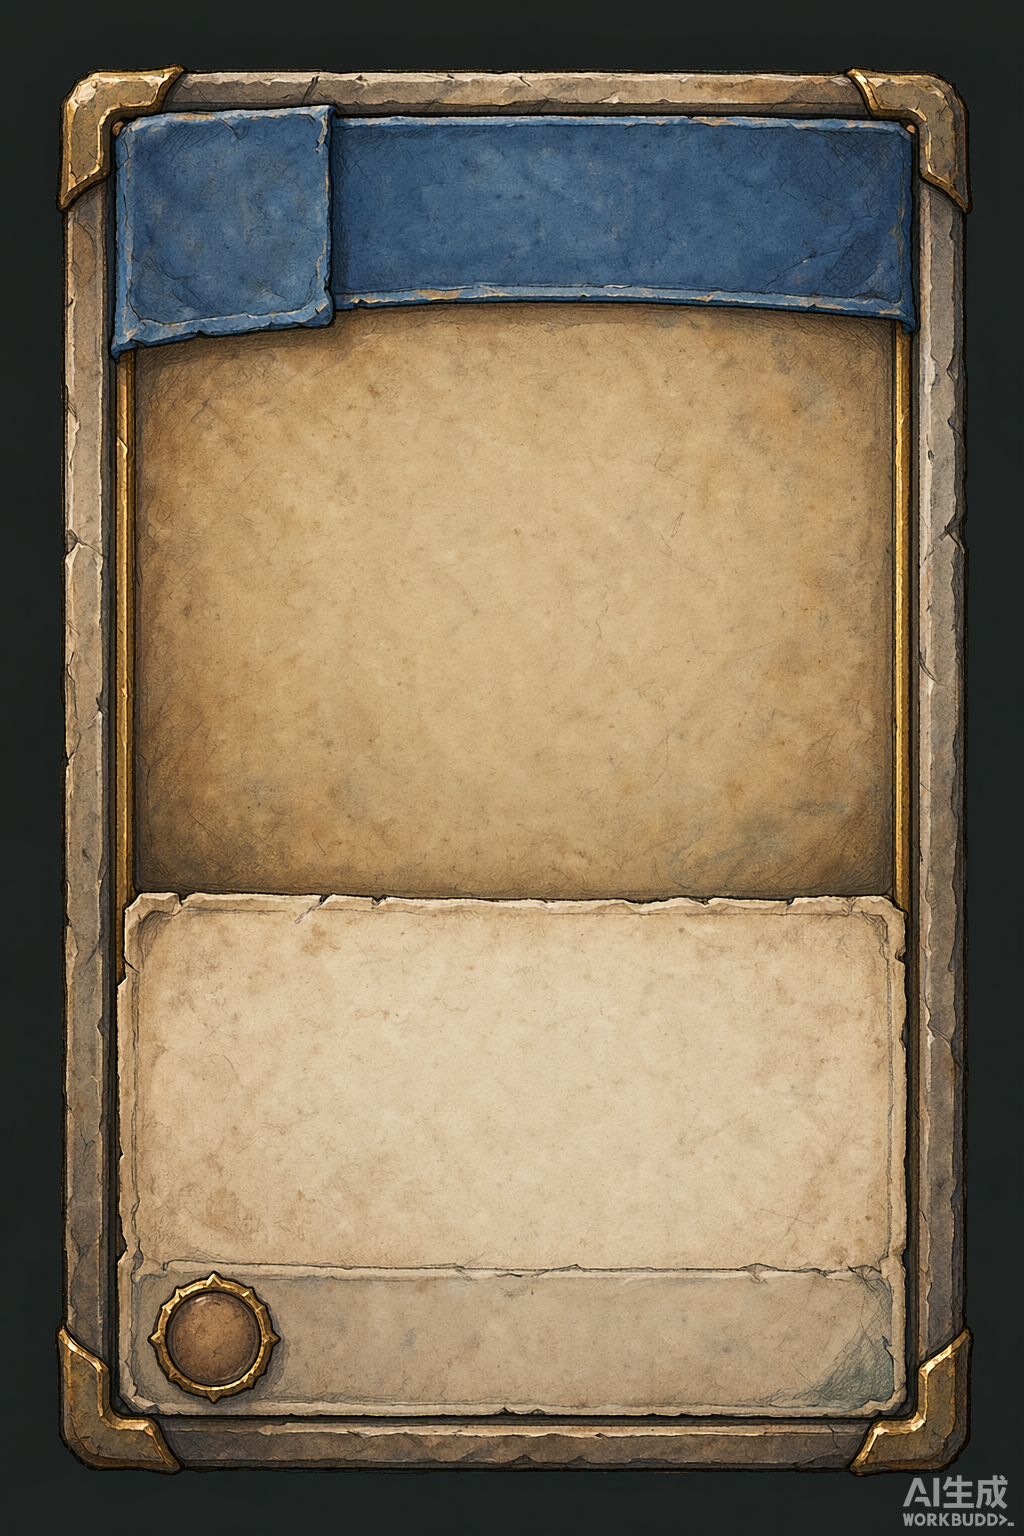
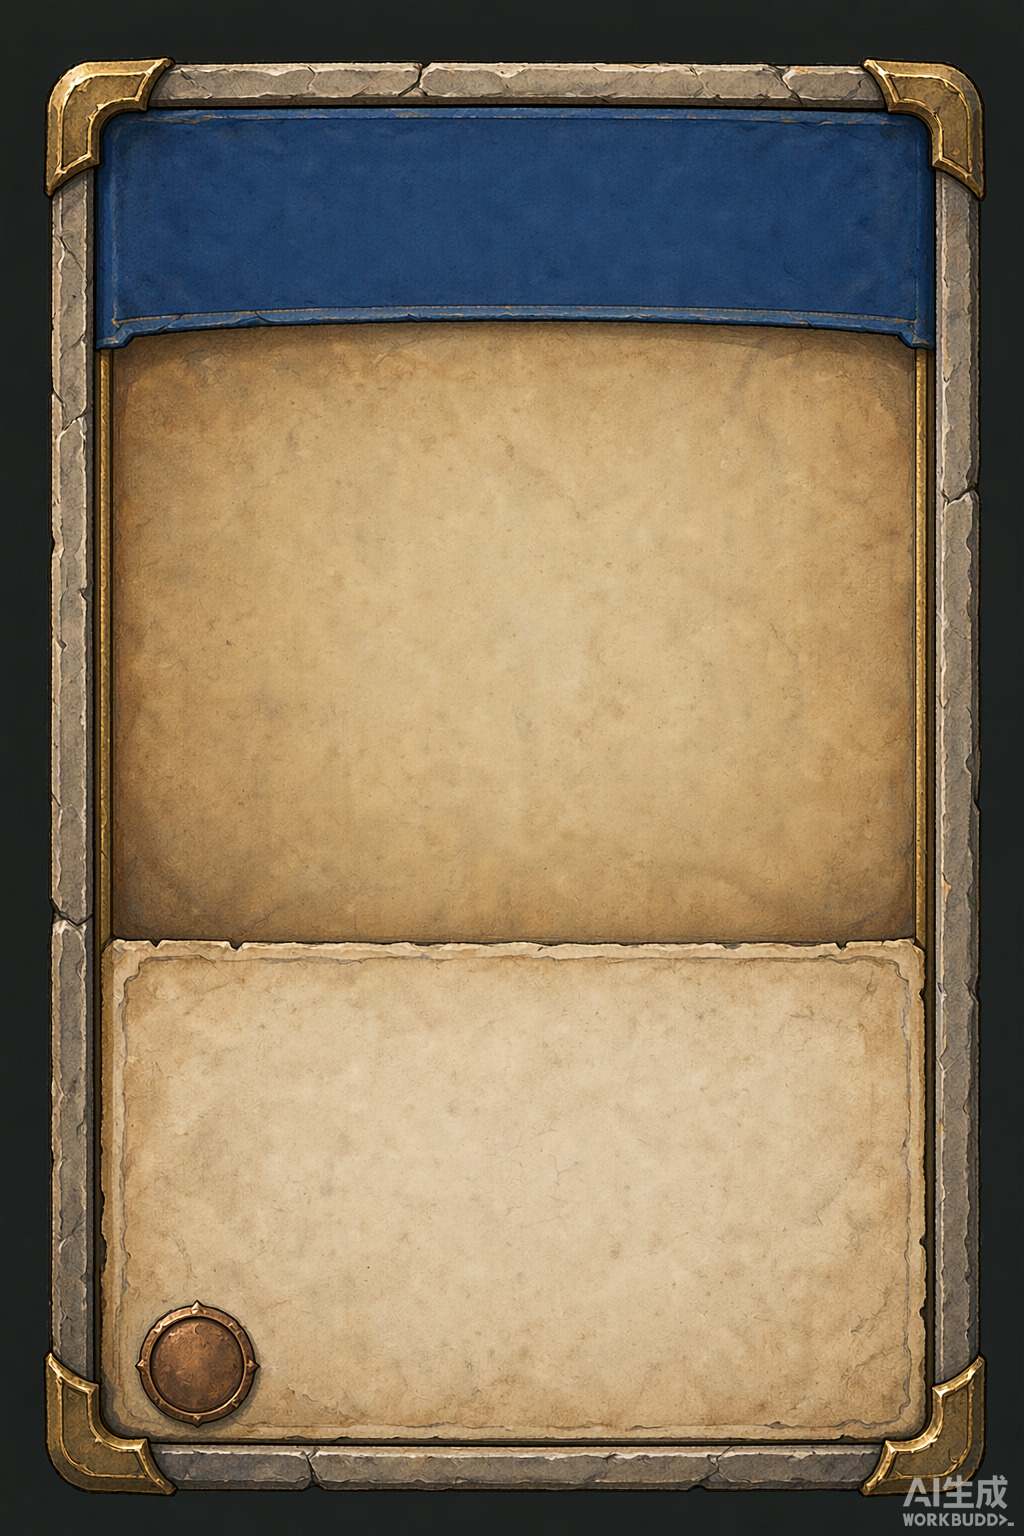
卡面 v2 修正轮（本地）：去突兀色带 + 卡牌加宽 80x120 + 重生成无文字卡框
- 删 ::before 实心横条（用户：太突兀），回素材原生蓝带
- 卡牌 72x108 → 80x120（保持 2:3）
- 重生成 card-frame-v2.png（强化色带纯色/全图无文字），background 115% auto 裁生图画布黑边
- 发布流程修正：中间态只本地 commit，push 留给阶段性验收点（用户质疑成立）

diff --git a/卡牌建城demo/css/style.css b/卡牌建城demo/css/style.css
@@ -382,9 +382,10 @@ html, body {
 
 .card {
   --kind-color: #3a6ea8;
-  width: 72px; height: 108px; flex: 0 0 72px;
+  width: 80px; height: 120px; flex: 0 0 80px;
   border-radius: 6px; border: none;
-  background: #d8cdb4 url('../assets/ui/card-frame-v2.png') center / 100% 100% no-repeat;
+  /* 115% 微放大居中：裁掉生图画布四周的黑边；素材无文字，无需再裁顶 */
+  background: #d8cdb4 url('../assets/ui/card-frame-v2.png') center / 115% auto no-repeat;
   box-shadow: 0 5px 14px rgba(0,0,0,.42);
   display: block;
   cursor: pointer;
@@ -393,11 +394,6 @@ html, body {
   transform-origin: bottom center;
 }
 .card-building { --kind-color: #4a7a3a; }
-.card::before {   /* 类型色带：实心横条盖住框图自带色带（同时盖掉其顶缘的 AI 残留文字） */
-  content: ''; position: absolute; left: 10%; right: 10%; top: 2.5%;
-  height: 12%; border-radius: 4px; background: var(--kind-color);
-  box-shadow: 0 1px 3px rgba(0,0,0,.3);
-}
 .card-road     { --kind-color: #8a6b3a; }
 .card-upgrade  { --kind-color: #7a5aa8; }
 .card-effect   { --kind-color: #3a8a5a; }

diff --git a/.workbuddy/memory/2026-10-10.md b/.workbuddy/memory/2026-10-10.md
@@ -459,6 +459,16 @@ AI 铺路 -65% → **脚本玩家**出击变少 → 训练量 106 → 71~79 → 
 **验收**：五层全绿 · 单卡特写（场景插画/色带/费用/名称）· 四类型色带显色。
 **待办**：批量生成其余卡场景插画（同提示词 i2i），路径与回退已就位。
 
+## ✅ 卡面 v2 修正轮（同日第三轮迭代，**未 push**）
+
+**用户三点反馈**：① 顶部实心色带太突兀 → 删 ::before 横条，回素材原生蓝带；② 卡牌太窄 → 72×108 → **80×120**；③ **发布流程质疑（成立）**：「这些改动都没确定上线，每次都上传更新版本干什么？」—— 我把"保存"和"发布"混了：之前授权针对阶段性成果，美术中间态不该每轮 push。
+
+**新发布规则（执行中）**：每轮只本地 commit；**push 留给阶段性验收点**（用户决定或确认后统一推）。
+
+**技术迭代**：素材色带上有 AI 残留文字（裁边裁不到）→ **重生成卡框**（提示词强化 "plain solid color, no text anywhere"）→ 纯净蓝带版；`background: 115% auto center` 裁生图画布黑边。
+
+**状态**：本地已 commit（fd90ac9 之后），**线上仍为上一版**（竖卡+旧框），待用户验收后统一推。
+
 ## ✅ 第五十次修订：AI 的任务线与遗物（排队③完成）
 
 **用户拍板**：「跟玩家这边的使用规则一样就行」+ 不加战报日志。**④ 存档接线不做了。**
